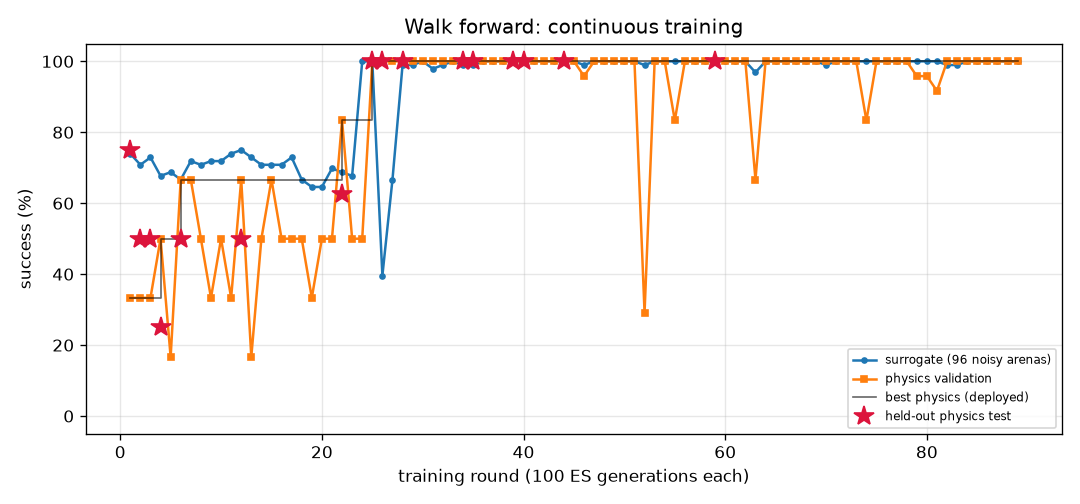
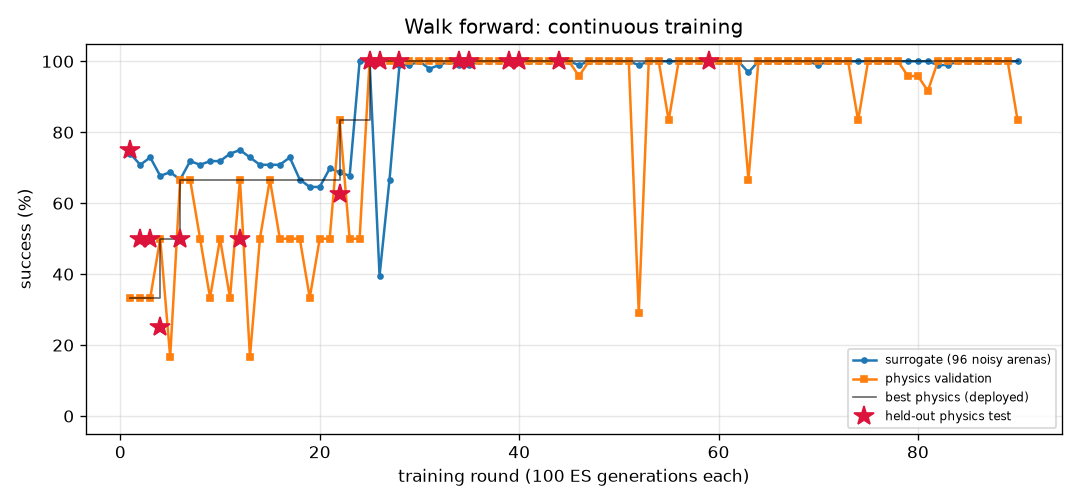
FlyLab: daily review 2026-10-11 - 7/7 optimal, training output

diff --git a/projects/09_flylab/training/walk_forward/REPORT.md b/projects/09_flylab/training/walk_forward/REPORT.md
@@ -1,14 +1,14 @@
 # Walk forward (`walk_forward`) — training report
 
-*Auto-generated by `train_brains.py`, last updated 2026-10-11T17:08:14.*
+*Auto-generated by `train_brains.py`, last updated 2026-10-11T20:58:50.*
 
 ![curve](curve.png)
 
 | | |
 |---|---|
-| rounds | 89 |
-| ES generations | 8900 |
-| physics runs | 2086 |
+| rounds | 90 |
+| ES generations | 9000 |
+| physics runs | 2110 |
 | status | **optimal** |
 | best brain | round 59: physics validation **100%** on 24 arenas, surrogate 100% |
 | held-out physics test | **100%** on 32 unseen arenas (95% CI 89%-100%) (errors: [0.22, 0.23, 0.28, 0.29, 0.23, 0.21, 0.23, 0.3, 0.3, 0.29, 0.27, 0.23, 0.29, 0.29, 0.21, 0.23, 0.23, 0.22, 0.22, 0.25, 0.28, 0.29, 0.23, 0.21, 0.22, 0.23, 0.3, 0.22, 0.23, 0.24, 0.3, 0.22]) |
@@ -17,7 +17,6 @@ Physics error per arena: mm from target at the end (< 1.5 and standing still = s
 
 | round | level | gens | sigma | surrogate | physics val | val errors | test | note |
 |---:|---:|---:|---:|---:|---:|---|---:|---|
-| 50 | 3 | 5000 | 0.024 | 100% | 100% | [0.38, 0.43, 0.35, 0.38, 0.43, 0.35, 0.43, 0.35, 0.42, 0.41, 0.34, 0.39, 0.35, 0.35, 0.4, 0.4, 0.36, 0.42, 0.35, 0.41, 0.35, 0.41, 0.39, 0.35] |  |  |
 | 51 | 3 | 5100 | 0.024 | 100% | 100% | [0.38, 0.44, 0.36, 0.38, 0.44, 0.37, 0.45, 0.36, 0.45, 0.43, 0.36, 0.4, 0.36, 0.37, 0.4, 0.4, 0.37, 0.43, 0.36, 0.42, 0.36, 0.42, 0.39, 0.36] |  |  |
 | 52 | 3 | 5200 | 0.024 | 99% | 29% | [0.14, 0.04, 1.3, 1.45, 1.09, 0.12, 0.06, 0.11, 0.06, 0.15, 0.12, 0.14, 0.35, 1.16, 0.08, 0.21, 0.64, 0.65, 0.45, 0.01, 0.34, 0.07, 0.32, 0.41] |  | restart from best |
 | 53 | 3 | 5300 | 0.024 | 100% | 100% | [0.24, 0.34, 0.31, 0.25, 0.33, 0.32, 0.36, 0.28, 0.34, 0.4, 0.32, 0.41, 0.29, 0.32, 0.26, 0.41, 0.26, 0.31, 0.27, 0.27, 0.27, 0.4, 0.41, 0.28] |  |  |
@@ -57,3 +56,4 @@ Physics error per arena: mm from target at the end (< 1.5 and standing still = s
 | 87 | 3 | 8700 | 0.024 | 100% | 100% | [0.26, 0.33, 0.2, 0.26, 0.3, 0.3, 0.34, 0.28, 0.32, 0.32, 0.24, 0.2, 0.27, 0.3, 0.32, 0.3, 0.27, 0.32, 0.31, 0.34, 0.29, 0.29, 0.27, 0.27] |  | restart from best |
 | 88 | 3 | 8800 | 0.024 | 100% | 100% | [0.08, 0.31, 0.06, 0.08, 0.31, 0.16, 0.31, 0.07, 0.32, 0.1, 0.06, 0.12, 0.07, 0.06, 0.26, 0.1, 0.08, 0.3, 0.08, 0.28, 0.07, 0.09, 0.24, 0.09] |  |  |
 | 89 | 3 | 8900 | 0.024 | 100% | 100% | [0.31, 0.34, 0.27, 0.31, 0.33, 0.26, 0.34, 0.27, 0.33, 0.33, 0.27, 0.31, 0.27, 0.27, 0.32, 0.32, 0.29, 0.35, 0.27, 0.33, 0.29, 0.32, 0.3, 0.27] |  |  |
+| 90 | 3 | 9000 | 0.024 | 100% | 83% | [0.06, 0.17, 0.17, 0.06, 0.17, 0.15, 0.19, 0.21, 0.12, 0.32, 0.09, 0.38, 0.03, 0.32, 0.07, 0.36, 0.12, 0.13, 0.04, 0.14, 0.05, 0.34, 0.4, 0.03] |  |  |

diff --git a/projects/09_flylab/training/odor_seek/REPORT.md b/projects/09_flylab/training/odor_seek/REPORT.md
@@ -1,14 +1,14 @@
 # Find food by smell (`odor_seek`) — training report
 
-*Auto-generated by `train_brains.py`, last updated 2026-10-11T18:09:32.*
+*Auto-generated by `train_brains.py`, last updated 2026-10-11T21:15:26.*
 
 ![curve](curve.png)
 
 | | |
 |---|---|
-| rounds | 92 |
-| ES generations | 9200 |
-| physics runs | 1510 |
+| rounds | 93 |
+| ES generations | 9300 |
+| physics runs | 1534 |
 | status | **optimal** |
 | best brain | round 79: physics validation **100%** on 24 arenas, surrogate 100% |
 | held-out physics test | **100%** on 32 unseen arenas (95% CI 89%-100%) (errors: [0.2, 0.2, 0.16, 0.12, 0.18, 0.07, 0.15, 0.17, 0.15, 0.14, 0.21, 0.15, 0.27, 0.08, 0.15, 0.23, 0.14, 0.15, 0.16, 0.14, 0.22, 0.15, 0.13, 0.11, 0.13, 0.18, 0.21, 0.13, 0.11, 0.13, 0.21, 0.15]) |
@@ -17,7 +17,6 @@ Physics error per arena: mm from target at the end (< 1.5 and standing still = s
 
 | round | level | gens | sigma | surrogate | physics val | val errors | test | note |
 |---:|---:|---:|---:|---:|---:|---|---:|---|
-| 53 | 1 | 5300 | 0.026 | 99% | 0% | [3.41, 3.94, 1.82, 2.68, 2.04, 3.77] |  |  |
 | 54 | 1 | 5400 | 0.025 | 97% | 0% | [3.59, 2.19, 3.65, 4.14, 3.62, 2.43] |  |  |
 | 55 | 1 | 5500 | 0.026 | 98% | 0% | [2.82, 0.29, 1.41, 3.77, 3.34, 1.7] | 0% | new best |
 | 56 | 1 | 5600 | 0.078 | 1% | 0% | [2.57, 2.72, 3.56, 1.7, 1.5, 0.85] |  |  |
@@ -57,3 +56,4 @@ Physics error per arena: mm from target at the end (< 1.5 and standing still = s
 | 90 | 3 | 9000 | 0.024 | 100% | 100% | [0.17, 0.22, 0.18, 0.13, 0.17, 0.22, 0.26, 0.15, 0.22, 0.15, 0.25, 0.21, 0.19, 0.26, 0.16, 0.23, 0.2, 0.17, 0.2, 0.18, 0.23, 0.12, 0.17, 0.15] |  |  |
 | 91 | 3 | 9100 | 0.024 | 100% | 100% | [0.29, 0.24, 0.3, 0.15, 0.24, 0.21, 0.17, 0.25, 0.27, 0.26, 0.24, 0.21, 0.21, 0.26, 0.22, 0.24, 0.21, 0.23, 0.26, 0.32, 0.2, 0.24, 0.31, 0.22] |  | restart from best |
 | 92 | 3 | 9200 | 0.024 | 100% | 100% | [0.25, 0.18, 0.19, 0.2, 0.27, 0.17, 0.15, 0.19, 0.15, 0.17, 0.24, 0.21, 0.24, 0.2, 0.17, 0.19, 0.16, 0.17, 0.17, 0.19, 0.21, 0.17, 0.19, 0.23] |  |  |
+| 93 | 3 | 9300 | 0.024 | 100% | 100% | [0.19, 0.24, 0.21, 0.15, 0.29, 0.14, 0.21, 0.23, 0.16, 0.29, 0.17, 0.22, 0.23, 0.16, 0.16, 0.19, 0.17, 0.18, 0.2, 0.18, 0.17, 0.19, 0.24, 0.17] |  |  |

diff --git a/projects/09_flylab/training/TRAINING.md b/projects/09_flylab/training/TRAINING.md
@@ -1,15 +1,15 @@
 # FlyLab brains — continuous training log
 
-*Auto-generated by `train_brains.py`, last updated 2026-10-11T20:37:56.*
+*Auto-generated by `train_brains.py`, last updated 2026-10-11T21:15:26.*
 
 Every skill has its own brain and its own training process: surrogate ES rounds, physics validation in MuJoCo, keep-the-best selection, and a held-out physics test that is never used for selection. See each skill's report for its full round-by-round history. Mastery is progressive: passing a level (100% physics validation, >=95% surrogate) doubles the validation and test arena sets; a brain is **optimal** once it holds up at level 3 (>=95% of 24 validation arenas) AND scores >=90% on the 32 held-out test arenas. Test columns show 95% Wilson confidence intervals.
 
 | skill | rounds | ES generations | physics runs | surrogate | physics val | **physics test** | status |
 |---|---:|---:|---:|---:|---:|---:|---|
-| [Walk forward](walk_forward/REPORT.md) | 89 | 8900 | 2086 | 100% | 100% of 24 | 100% of 32 (CI 89-100%) | **optimal** |
+| [Walk forward](walk_forward/REPORT.md) | 90 | 9000 | 2110 | 100% | 100% of 24 | 100% of 32 (CI 89-100%) | **optimal** |
 | [Turn in place](turn/REPORT.md) | 328 | 32800 | 8118 | 100% | 100% of 24 | 97% of 32 (CI 84-99%) | **optimal** |
 | [Go to a location](goto/REPORT.md) | 86 | 8600 | 1950 | 100% | 100% of 24 | 100% of 32 (CI 89-100%) | **optimal** |
-| [Find food by smell](odor_seek/REPORT.md) | 92 | 9200 | 1510 | 100% | 100% of 24 | 100% of 32 (CI 89-100%) | **optimal** |
+| [Find food by smell](odor_seek/REPORT.md) | 93 | 9300 | 1534 | 100% | 100% of 24 | 100% of 32 (CI 89-100%) | **optimal** |
 | [Escape a bad smell](odor_avoid/REPORT.md) | 417 | 41700 | 7314 | 97% | 100% of 24 | 97% of 32 (CI 84-99%) | **optimal** |
 | [Walk toward light](light_seek/REPORT.md) | 275 | 27500 | 3352 | 100% | 100% of 24 | 100% of 32 (CI 89-100%) | **optimal** |
 | [Hide from light](light_avoid/REPORT.md) | 196 | 19600 | 4976 | 100% | 100% of 24 | 100% of 32 (CI 89-100%) | **optimal** |
